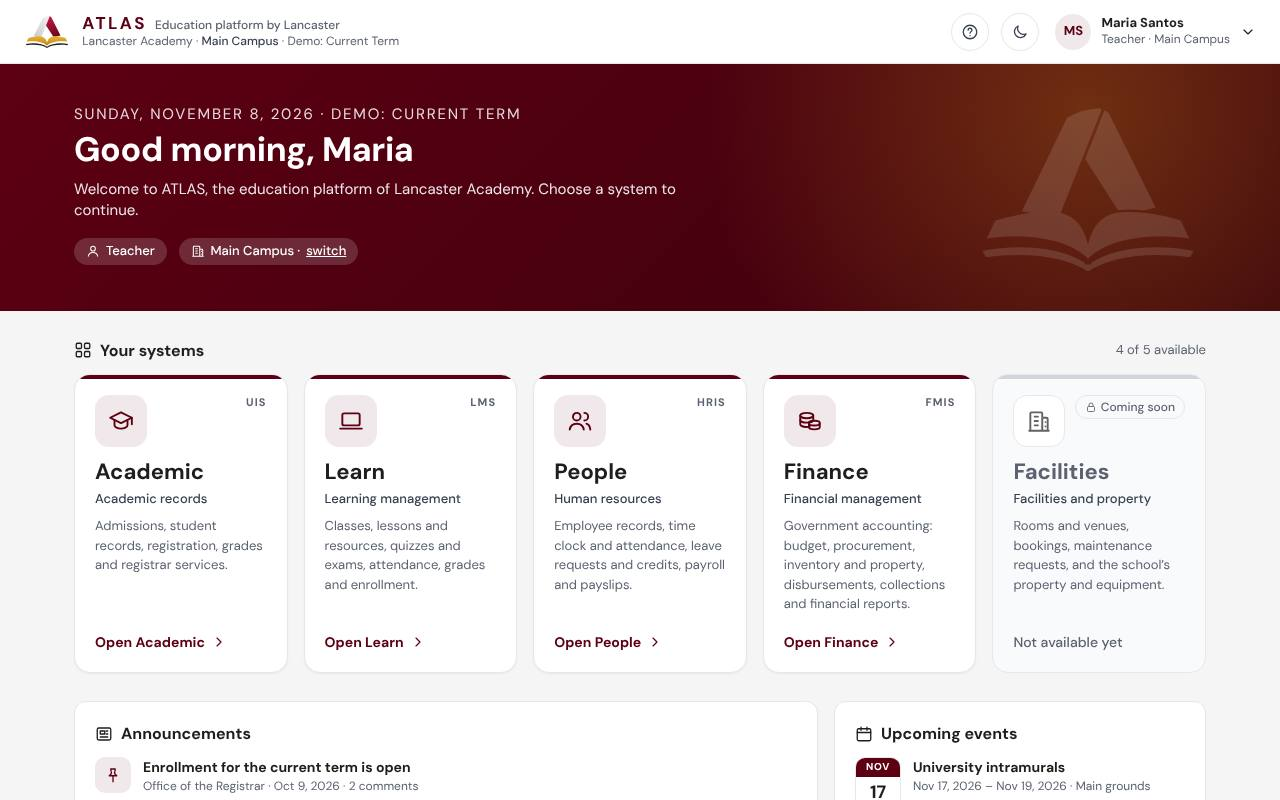
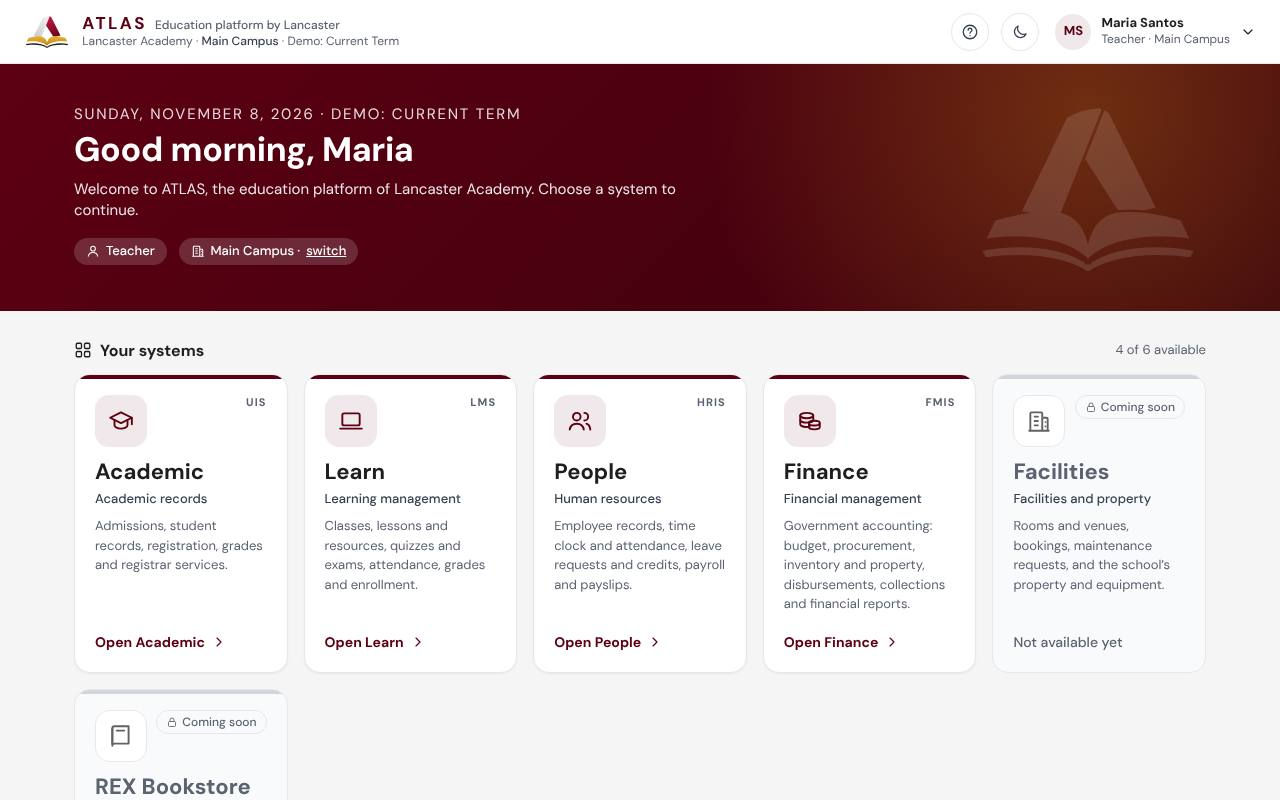
REX Bookstore e-Reader on the ATLAS home page, coming soon
A new system tile for the REX Bookstore e-Reader (e-books from the REX
Bookstore app's library, for students, teachers, registrars, deans and
administrators). It is "Coming soon" by default; an administrator
switches it live with its address under Home page & systems once the
connection to the REX Bookstore app is ready. Guides, What's new and
the home page screenshot updated; hub test covers it.

Claude-Session: https://claude.ai/code/session_0144m4kAiN1qd67UTLL7L4Zw

Changed region(s): [[0.0625, 0.8438, 0.3125, 1.0], [0.6562, 0.9062, 0.9062, 1.0]]

diff --git a/lms/test/hub.test.js b/lms/test/hub.test.js
@@ -26,16 +26,17 @@ test('one sign-in: each account type lands on its own side', async () => {
   await assert.rejects(env.client().post('/api/hub/login', { username: 'ghost', password: 'nope' }), /Incorrect username or password/);
 });
 
-test('ATLAS products: Academic, Learn and Finance open, Facilities coming soon, People not shown to students', async () => {
+test('ATLAS products: Academic, Learn and Finance open, Facilities and the REX Bookstore e-Reader coming soon, People not shown to students', async () => {
   const env = setup();
   const { login } = await seed(env);
   const anon = await env.client().get('/api/hub/status');
-  assert.deepEqual(anon.systems.map((x) => x.id), ['uis', 'lms', 'hris', 'fmis', 'facilities']);
-  assert.deepEqual(anon.systems.map((x) => x.name), ['ATLAS Academic', 'ATLAS Learn', 'ATLAS People', 'ATLAS Finance', 'ATLAS Facilities']);
+  assert.deepEqual(anon.systems.map((x) => x.id), ['uis', 'lms', 'hris', 'fmis', 'facilities', 'rex']);
+  assert.deepEqual(anon.systems.map((x) => x.name), ['ATLAS Academic', 'ATLAS Learn', 'ATLAS People', 'ATLAS Finance', 'ATLAS Facilities', 'REX Bookstore e-Reader']);
   assert.ok(anon.systems.every((x) => x.url === ''), 'no addresses before signing in');
 
   const s = await (await login('stud1')).get('/api/hub/status');
-  assert.deepEqual(s.systems.map((x) => [x.id, x.status]), [['uis', 'live'], ['lms', 'live'], ['fmis', 'live']]);
+  assert.deepEqual(s.systems.map((x) => [x.id, x.status]), [['uis', 'live'], ['lms', 'live'], ['fmis', 'live'], ['rex', 'soon']]);
+  assert.equal(s.systems.find((x) => x.id === 'rex').url, '', 'the e-reader is coming soon: no address yet');
   assert.equal(s.systems.find((x) => x.id === 'fmis').url, '/finance/');
   assert.equal(s.systems.find((x) => x.id === 'uis').url, '/academic/');
   assert.equal(s.systems.find((x) => x.id === 'lms').url, '/lms/');

diff --git a/lms/shared/systems.js b/lms/shared/systems.js
@@ -58,7 +58,20 @@ export const SYSTEMS = [
     icon: 'building',
     audience: ['teacher', 'registrar', 'admin', 'hr', 'payroll', 'staff', 'accountant', 'budget', 'cashier', 'supply', 'approver'],
   },
-].map((s) => ({ ...s, name: `ATLAS ${s.product}` }));
+  {
+    // REX Bookstore's e-reader: the e-books from the REX Bookstore app's library, for classes.
+    // Coming soon; when the connection to the REX Bookstore app is ready, an administrator switches
+    // it live with its address (Admin panel → Home page & systems).
+    id: 'rex',
+    product: 'REX Bookstore e-Reader',
+    name: 'REX Bookstore e-Reader',
+    short: 'e-Reader',
+    title: 'E-books for your classes',
+    description: 'Read the REX Bookstore e-books for your subjects on any device: textbooks and workbooks from the REX Bookstore app\'s library.',
+    icon: 'book',
+    audience: ['student', 'teacher', 'registrar', 'dean', 'admin'],
+  },
+].map((s) => ({ ...s, name: s.name || `ATLAS ${s.product}` }));
 
 export const SYSTEM_STATUS = ['soon', 'live', 'hidden'];
 

diff --git a/lms/docs/guides/whats-new.md b/lms/docs/guides/whats-new.md
@@ -9,6 +9,9 @@ order: 2
 
 ## November 2026
 
+### REX Bookstore e-Reader (coming soon)
+- The ATLAS home page has a **REX Bookstore e-Reader** tile, marked **Coming soon**: e-books for your subjects from the REX Bookstore app's library, for students and teachers. Administrators switch it on under **Home page & systems** once it is connected. See [the administrator's guide](admin#choose-what-the-atlas-home-page-shows).
+
 ### School calendar
 - Students, teachers and parents have a **Calendar** in Learn: class meetings, due dates (and whether work was handed in), examinations, holidays and days without classes, school events and term dates, by month, week or list, with filters. Parents see each linked student as far as the link allows. Subscribe from Google Calendar, Outlook or a phone. See [the student's guide](student#use-the-calendar), [the teacher's guide](teacher#use-the-calendar) and [the parent's guide](parent#see-the-school-calendar).
 - The calendar has a cleaner look: one frame, a dot and time for each class or due date, events of several days as one bar, tick boxes to show or hide each kind, a week of seven columns and a list with the date beside each day.

diff --git a/lms/docs/guides/admin.md b/lms/docs/guides/admin.md
@@ -200,8 +200,10 @@ Administrators always have every permission, and managing administrator accounts
 ### Choose what the ATLAS home page shows
 
 1. Choose **Home page & systems**. Academic, Learn, People and Finance are built in and always live.
-2. For **Facilities**, choose a **Status**: **Coming soon (greyed out)**, **Live: open it from the portal** or **Hidden**.
+2. For **Facilities** or the **REX Bookstore e-Reader**, choose a **Status**: **Coming soon (greyed out)**, **Live: open it from the portal** or **Hidden**.
 3. To make it live, type its **Address** (starting with `https://`, `http://` or `/`).
+
+The **REX Bookstore e-Reader** connects to the REX Bookstore app's library of e-books, for students and teachers. It shows as **Coming soon** until that connection is ready; then switch it to **Live** with the address of the e-reader.
 4. Choose **Save**. The home page changes at once.
 
 Each card says which account types see that tile.

diff --git a/lms/docs/guides/getting-started.md b/lms/docs/guides/getting-started.md
@@ -149,6 +149,7 @@ The registrar reviews your application. Once you are admitted, you sign in with 
 | People tile | HR: employee records, time clock, attendance, leave and payslips. For every employee; not for students or parents |
 | Finance tile | The school's accounts for the finance offices, and self-service for employees and students (for example, receipts). Not for parents |
 | Facilities tile | Rooms, bookings, maintenance and property. Shown as **Coming soon** until your school switches it on |
+| REX Bookstore e-Reader tile | E-books for your subjects from the REX Bookstore app's library. For students, teachers, registrars, deans and administrators; shown as **Coming soon** for now |
 | All systems | The grid button in each system's top bar: back to the ATLAS home page |
 | Help | The question-mark button in the top bar: the Help & guides page |
 | Dark mode | The moon (or sun) button: dark or light screens |
